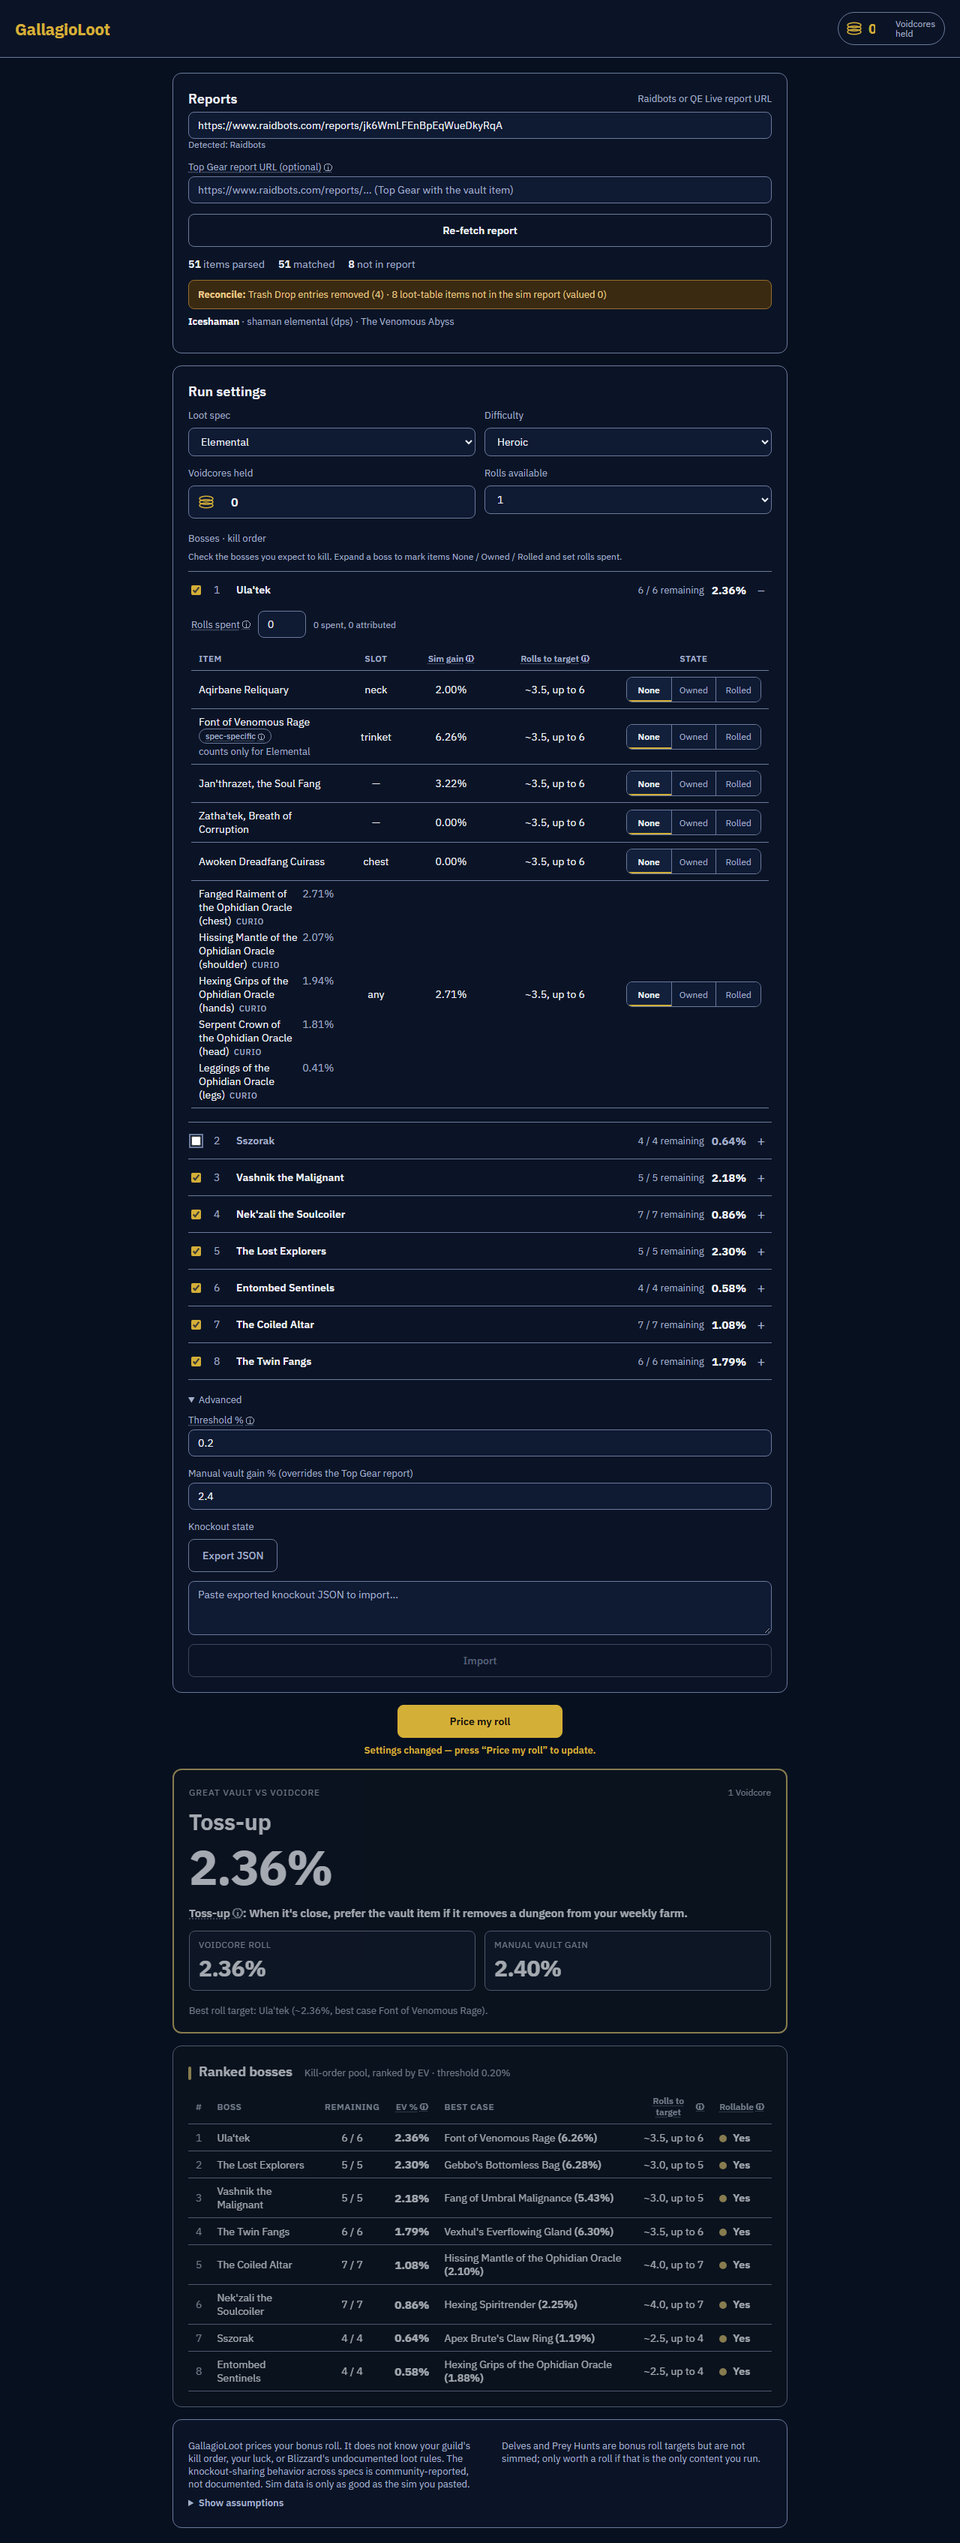
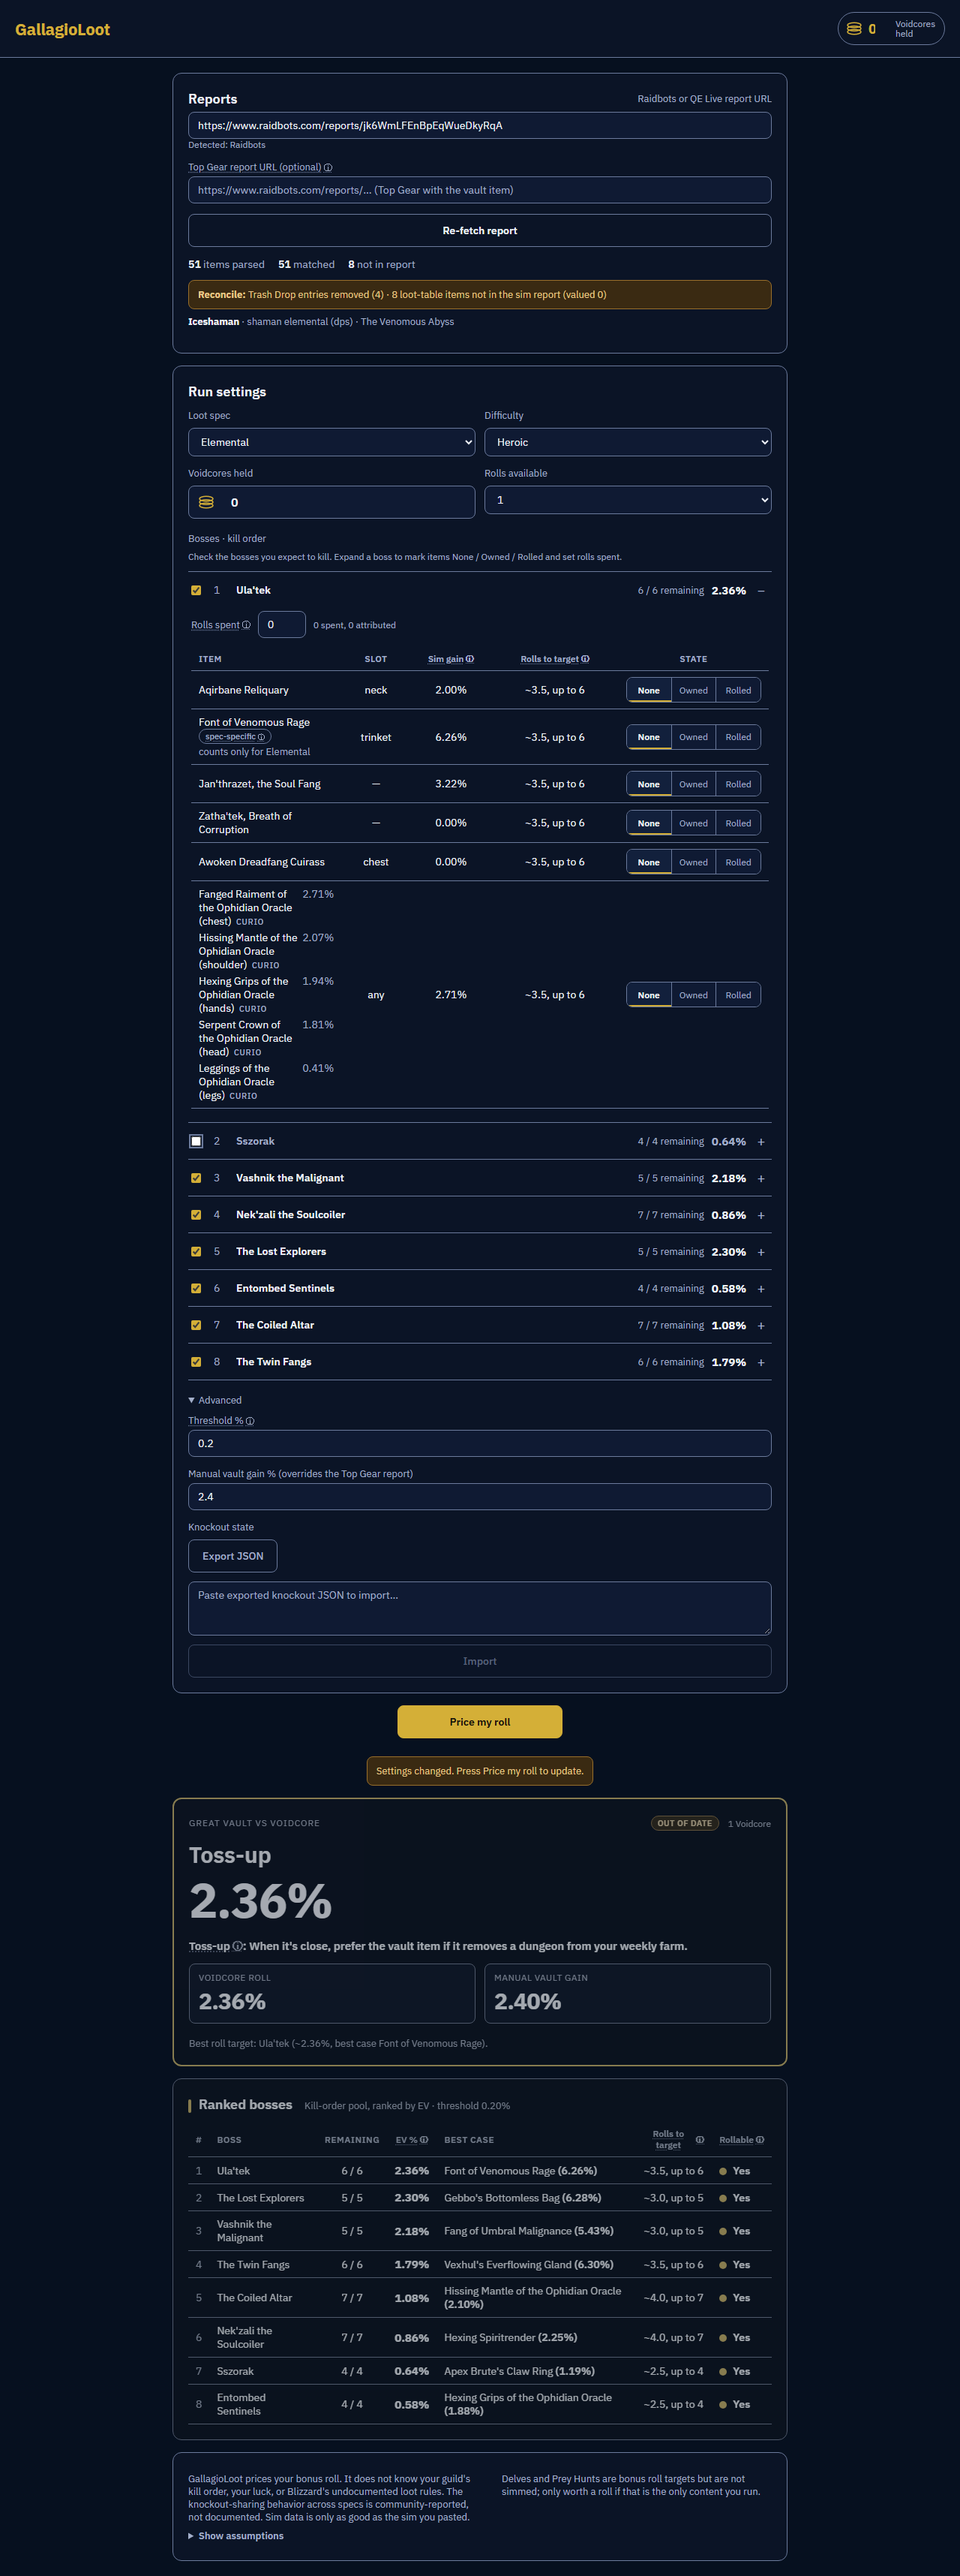
Make stale pricing state visibly obvious, not just dimmed
The card+detail already dimmed (opacity 0.45 + desaturate) when
settings changed after pricing, but the only other signal was a
gold-colored note that looked like ordinary emphasis, not a warning,
and used an em dash + curly quotes.

- RecommendationCard now takes a `stale` prop and shows an "Out of
  date" badge next to the Voidcores-available meta when set.
- The re-price note now reuses .warning-banner's fill/border/text
  (already contrast-verified against its own background in
  contrast.mts) instead of a bespoke gold color -- a real visible
  warning, not just colored text.
- Copy changed to "Settings changed. Press Price my roll to update."
  -- no em dash, no smart quotes.

diff --git a/web/src/theme.css b/web/src/theme.css
@@ -751,6 +751,29 @@ tr.excluded .deploy-table__ev {
   white-space: nowrap;
 }
 
+.rec-card__top-right {
+  display: flex;
+  align-items: center;
+  gap: var(--space-6);
+}
+
+/* Reuses the warning-banner fill/border/text combo (already contrast-verified against
+   its own background) as a compact pill -- same visible-warning language as the
+   reprice note below the button, just badge-shaped. */
+.rec-card__badge--stale {
+  display: inline-block;
+  padding: 2px 8px;
+  border-radius: 999px;
+  font-size: 11px;
+  font-weight: 600;
+  text-transform: uppercase;
+  letter-spacing: 0.04em;
+  background: #3a2a12;
+  border: 1px solid #996f2b;
+  color: #e8c98a;
+  white-space: nowrap;
+}
+
 .rec-card__headline {
   font-family: var(--font-display);
   font-size: var(--text-headline);
@@ -1603,10 +1626,11 @@ select:disabled {
   min-width: 220px;
 }
 
+/* Reuses .warning-banner's visible-warning treatment -- just adds top spacing under
+   the button instead of the banner's usual bottom-of-panel margin. */
 .reprice-note {
-  color: var(--gold);
-  font-size: var(--text-meta);
-  font-weight: 600;
+  margin-top: var(--space-8);
+  margin-bottom: 0;
 }
 
 /* Stale dim: the snapshot is intentionally de-emphasized (not hidden) until re-priced.

diff --git a/web/src/components/RecommendationCard.tsx b/web/src/components/RecommendationCard.tsx
@@ -1,7 +1,7 @@
 import type { CardData } from '../lib/cardData'
 import { Tooltip } from './Tooltip'
 
-export function RecommendationCard({ card, onPrimaryAction }: { card: CardData; onPrimaryAction?: () => void }) {
+export function RecommendationCard({ card, onPrimaryAction, stale }: { card: CardData; onPrimaryAction?: () => void; stale?: boolean }) {
   const actionLabel = card.verdict === 'vault' ? 'Take vault item' : card.verdict === 'tokens' ? 'Mark tokens taken' : 'Mark as rolled'
   const kicker = card.vaultCompare ? 'Great Vault vs Voidcore' : 'GallagioLoot recommends'
   const meta = `${card.rollsAvailable} Voidcore${card.rollsAvailable === 1 ? '' : 's'}`
@@ -16,7 +16,10 @@ export function RecommendationCard({ card, onPrimaryAction }: { card: CardData; 
     <section className="rec-card" aria-label="Bonus roll recommendation">
       <div className="rec-card__top">
         <div className="rec-card__eyebrow">{kicker}</div>
-        <div className="rec-card__meta num">{meta}</div>
+        <div className="rec-card__top-right">
+          {stale && <span className="rec-card__badge--stale">Out of date</span>}
+          <span className="rec-card__meta num">{meta}</span>
+        </div>
       </div>
 
       {tossUpPair ? (

diff --git a/web/src/App.tsx b/web/src/App.tsx
@@ -626,12 +626,12 @@ export default function App() {
             <button type="button" className="btn btn-gold price-action__btn" disabled={!cardData} onClick={handlePrice}>
               Price my roll
             </button>
-            {stale && <div className="reprice-note">Settings changed — press “Price my roll” to update.</div>}
+            {stale && <div className="warning-banner reprice-note">Settings changed. Press Price my roll to update.</div>}
           </div>
 
           {priced && (
             <div className={`priced-section${stale ? ' priced-section--stale' : ''}`} aria-live="polite">
-              <RecommendationCard card={priced.card} />
+              <RecommendationCard card={priced.card} stale={stale} />
               <div style={{ marginTop: 16 }}>
                 <PricedDetail bossEvals={priced.bossEvals} thresholdPct={thresholdPct} />
               </div>
